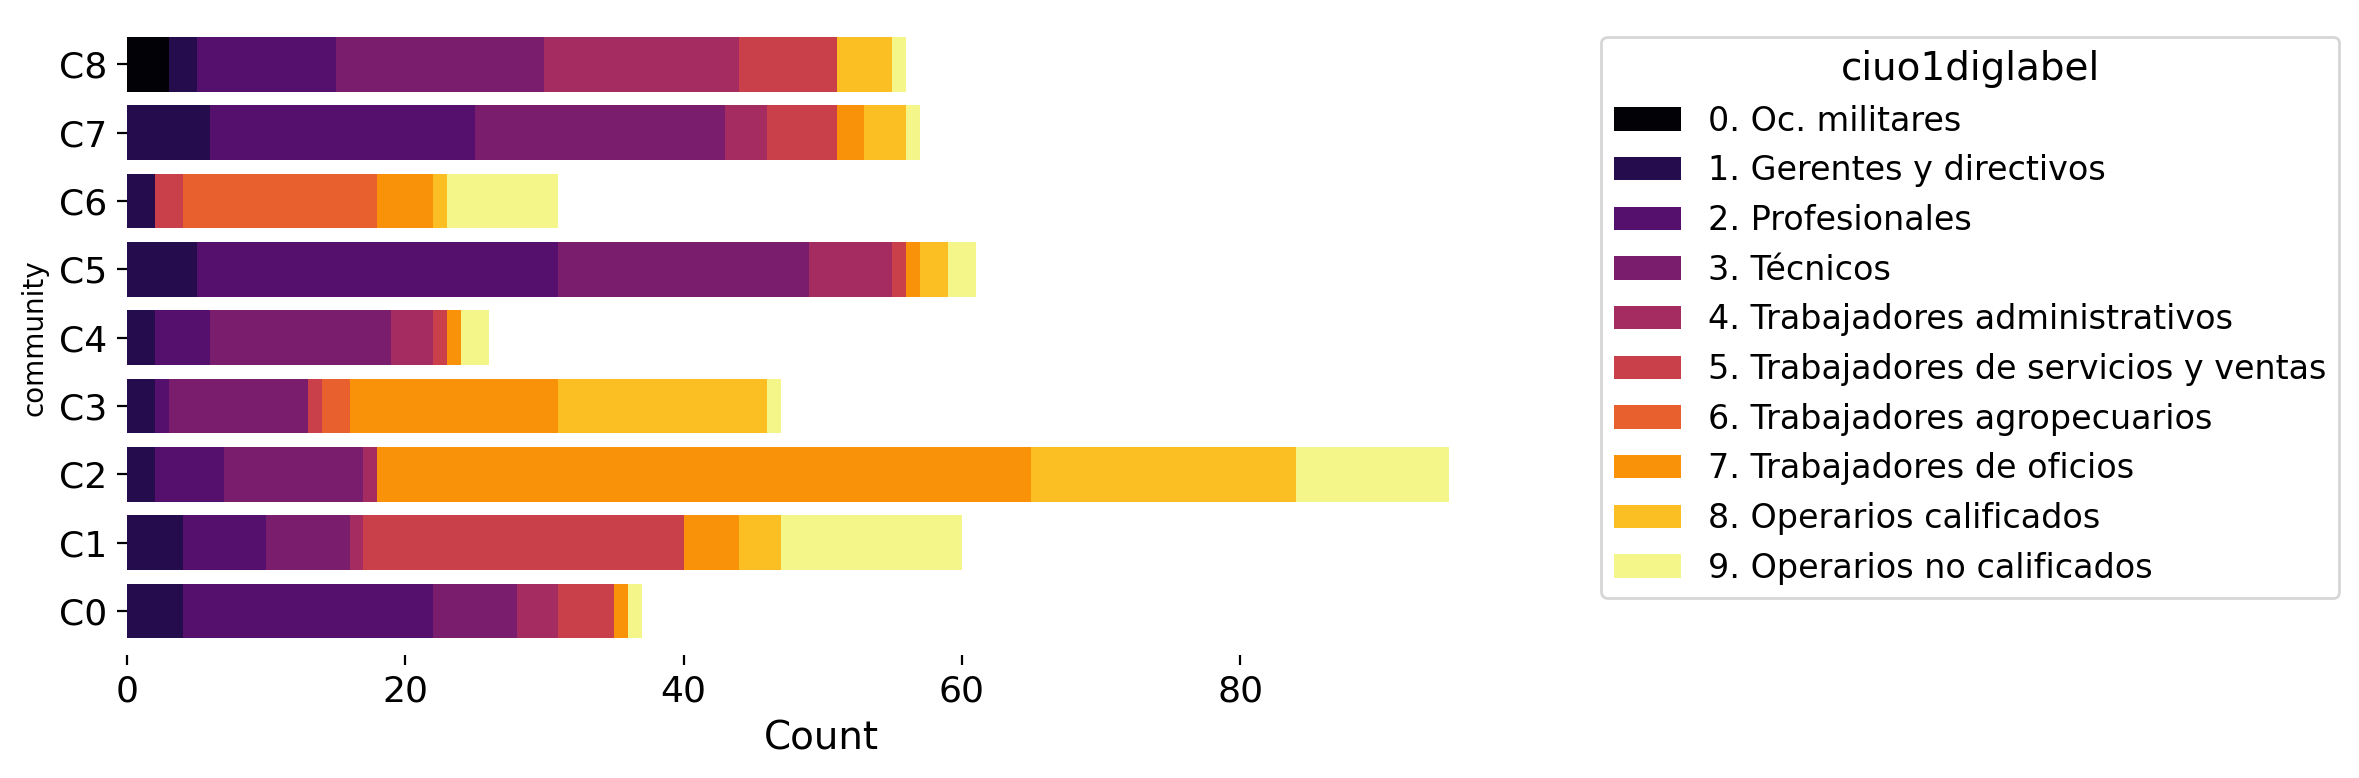
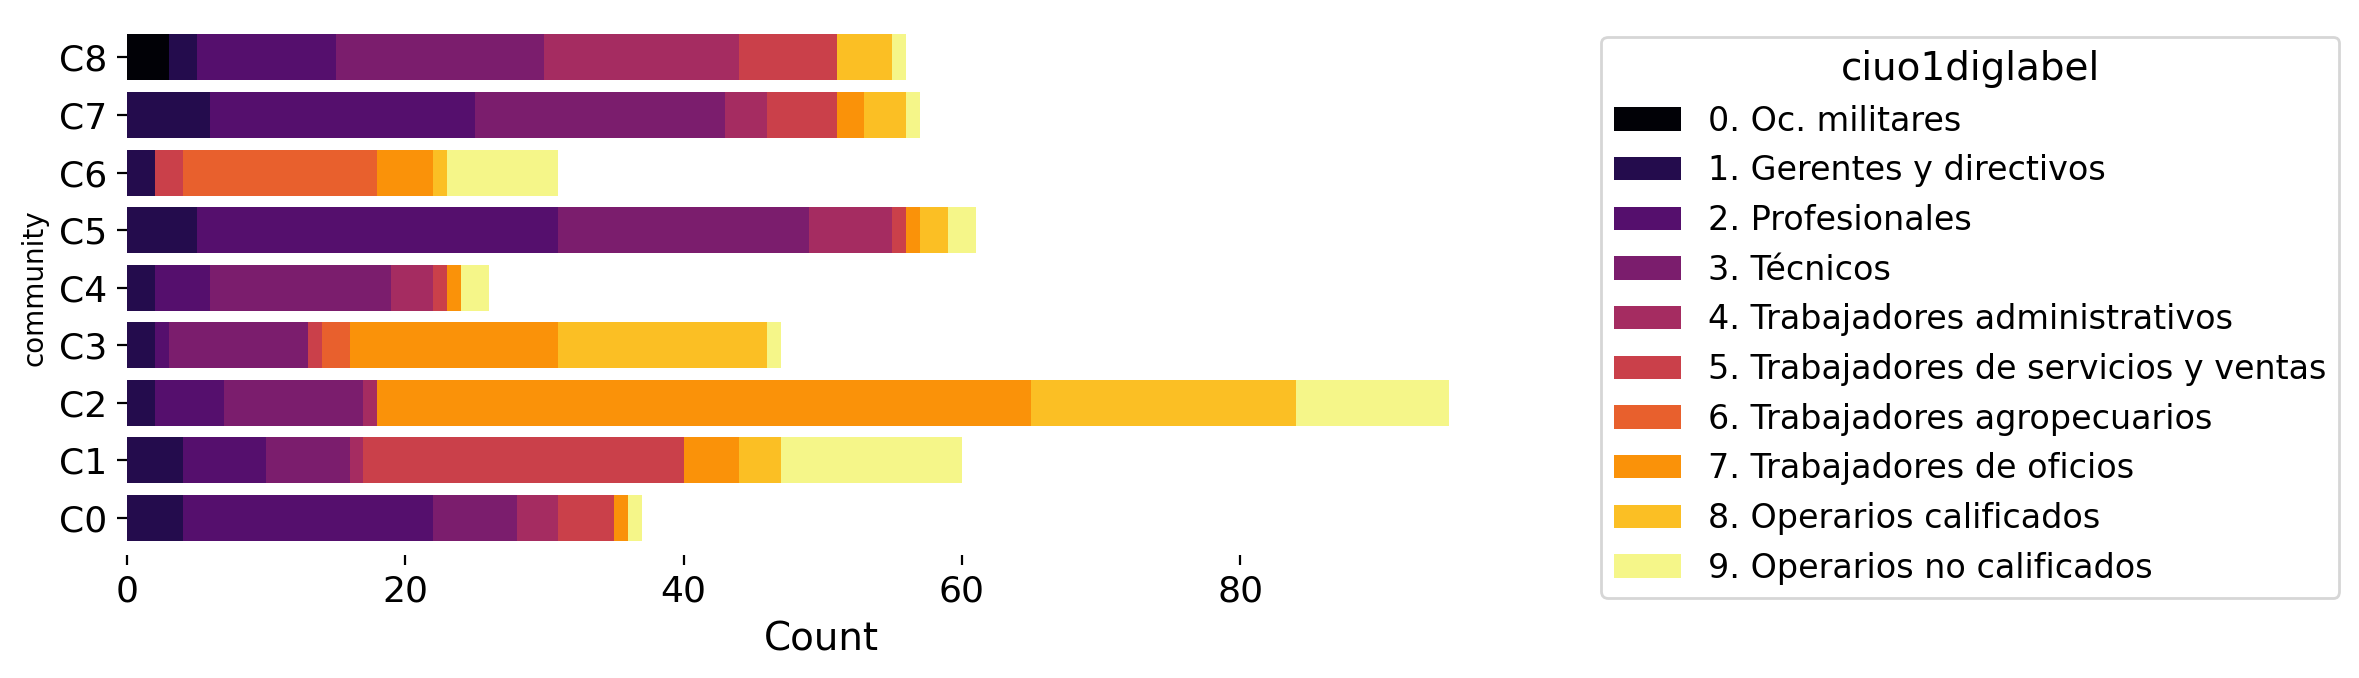
Update data source configuration and adjust plotting parameters

diff --git a/config.py b/config.py
@@ -5,8 +5,8 @@ DATA_RAW_PATH = Path(__file__).parent / Path("data/raw")
 DATA_PROCESSED_PATH = Path(__file__).parent / Path("data/processed")
 
 DATA_ENES_PISAC = {
-    "source": DATA_RAW_PATH / "base_enespersonas.csv",
-    "url": None, #"https://datasets.datos.mincyt.gob.ar/dataset/b0c0ae96-4028-4d0e-919a-c6830110f6b6/resource/421a7e29-7d15-4b69-a2e8-d7242b58b770/download/base_enespersonas.csv",
+    "source": None, #DATA_RAW_PATH / "base_enespersonas.csv",
+    "url": "https://datasets.datos.mincyt.gob.ar/dataset/b0c0ae96-4028-4d0e-919a-c6830110f6b6/resource/421a7e29-7d15-4b69-a2e8-d7242b58b770/download/base_enespersonas.csv",
     "col_id": ["nocues", "nhog"],
     "col_caes_id": "v182caes",
     "col_ciuo_id": "v183ciuo",
@@ -59,7 +59,7 @@ TOP_N_BAR_FIGSIZE = (8, 6)
 EDGE_CORRELATION_FIGSIZE = (6, 6)
 BIPARTITE_FIGSIZE = (14, 6)
 PROJECTION_FIGSIZE = (8, 8)
-STACKED_FIGSIZE = (12, 4)
+STACKED_FIGSIZE = (12, 3.5)
 PLOT_FONT_SIZE = 14
 
 LOGSCALE = False

diff --git a/src/plotting.py b/src/plotting.py
@@ -638,7 +638,7 @@ def plot_projection_by_group(
 	for group, color in group_color_map.items():
 		plt.scatter([], [], color=color, label=label_fn(group))
 
-	plt.legend(title=legend_title, fontsize=max(font_size - 2, 6), title_fontsize=font_size, loc='best', borderaxespad=8.0)
+	plt.legend(title=legend_title, fontsize=max(font_size - 2, 6), title_fontsize=font_size, loc='best', borderaxespad=4.0, framealpha=0.7)
 	plt.title(title, fontsize=font_size + 1)
 	plt.axis("off")
 	if save:
